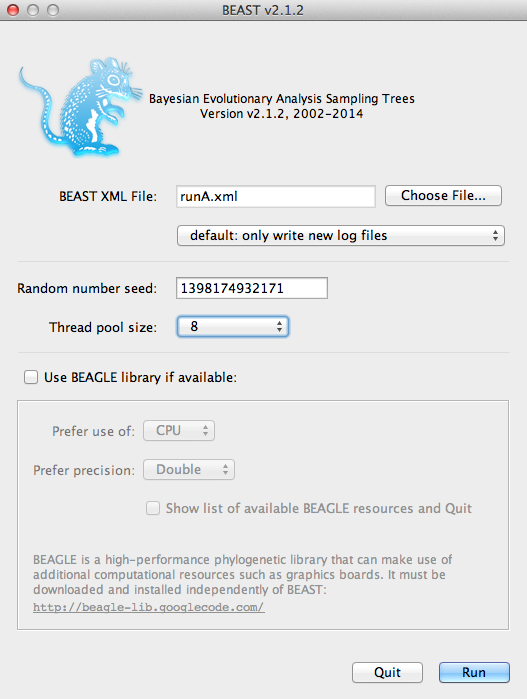
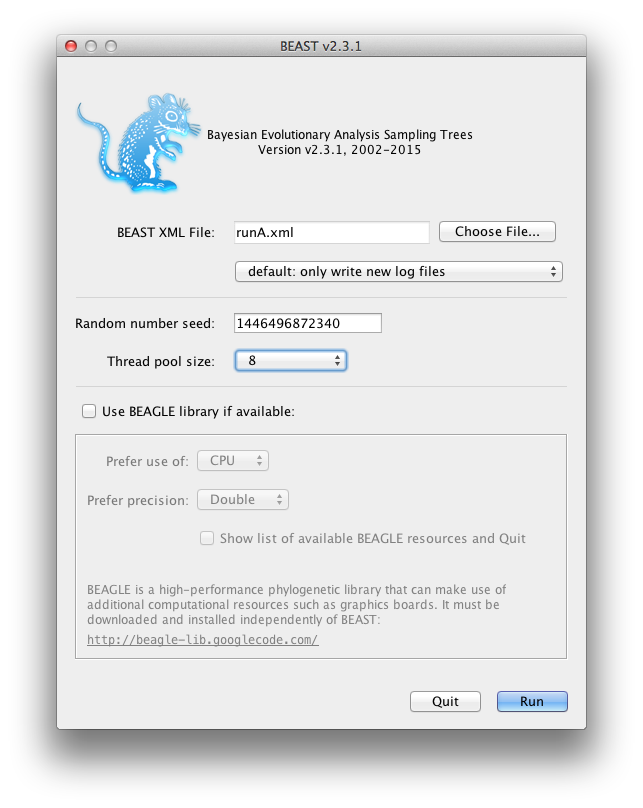
update BFD* tutorial

Changed region(s): [[0.0, 0.0, 1.0, 0.9914]]

diff --git a/BFD*/tutorial/BFD*-tutorial-steps.tex b/BFD*/tutorial/BFD*-tutorial-steps.tex
@@ -1,16 +1,15 @@
 \intermediate{\subsection{Downloads and Data}}
 
-\step{Download and data.}{
+\step{Download and data.}{\footnote{\label{foot.done}Already done at the Bioinformatics 2015 workshop.}
     Download \program{BEAST} from \href{http://beast2.org}{\url{http://beast2.org}} and install it on your computer.
-    This tutorial is written for the Mac OS X version of \program{BEAST}v2.1.2.
+    This tutorial is written for the Mac OS X version of \program{BEAST}v2.3.1.
     
-    You will be using \program{BEAST} to run \program{SNAPP}, although it is possible to run \program{SNAPP} on it's own. However, we 
-    have to use \program{BEAST} in order to combine \program{SNAPP} and marginal likelihood estimation into the same analytical framework. 
-    Thus, without \program{BEAST} we would not be able to conduct Bayes factor delimitation of species with \program{SNAPP}.
+    You will be using \program{BEAST} to run \program{SNAPP}. %RRB: highly discouraged now:, although it is possible to run \program{SNAPP} on it's own. 
+    We  have to use \program{BEAST} in order to combine \program{SNAPP} and marginal likelihood estimation into the same analytical framework. 
     
     }
 
-\step{Data included with the tutorial.}{
+\step{Data included with the tutorial.}{\hspace{-2.5mm}$^1$ %${}^\ref{foot.done}$
    After downloading and unzipping this archive you should have a BFD*-tutorial folder on your computer. This tutorial
     contains the files and folders shown in
     Box~\ref{box:tutorialDir}. The \menutab{data} folder contains the gecko SNP data in binary format (necessary for \program{SNAPP}). If you are unsure of how to convert your own
@@ -52,7 +51,15 @@
 
 \step{Launch BEAUTi}{Begin by launching the \program{BEAUTi} program that comes with \program{BEAST}. If you
     are using Mac OSX or Windows, you should be able to do this by double
-    clicking on the application. If everything is working correctly, a window
+    clicking on the application. On Linux, use the following command from a terminal:
+    
+    	    \cmd{/path/to/BEASTv2.3.1/bin/beauti}
+	    
+	    or
+	    
+	    \cmd{beauti}
+    
+    If everything is working correctly, a window
     should appear that looks something like Figure~\ref{fig:beautiInit}.
     \begin{figure}[htbp]
         \centering
@@ -62,7 +69,8 @@
     \end{figure}
 }
 
-\step{Install SNAPP and model selection packages}{We need to add functionality to \program{BEAST} in order to estimate 
+\step{Install SNAPP and model selection packages}{\hspace{-2.5mm}$^1$ %${}^\ref{foot.done}$ 
+    We need to add functionality to \program{BEAST} in order to estimate 
      species trees with SNP data and 
      to perform model selection. Begin by using the drop-down 
      menu \subItem{File}{Manage Packages.} A window should 
@@ -81,7 +89,7 @@
 \step{Converting \program{BEAUTi} to \program{SNAPP} mode}{We need to tell \program{BEAUTi} that we are 
      setting up a \program{SNAPP} analysis, which will change the menu options and allow us to import SNP data.
      Begin by using the drop-down 
-     menu \subItem{File}{Template, SNAPP}. This should change the appearance of the \program{BEAUTi} 
+     menu \subItem{File}{Template, SNAPP.} This should change the appearance of the \program{BEAUTi} 
      window to look something like Figure~\ref{fig:beauti-snapp}.
 
     \begin{figure}[htbp]
@@ -96,7 +104,7 @@
 
 \step{Import the SNP data.}{
     Import the SNP data (the {\bf hemi129.nex} file)
-    using the drop-down menu \subItem{File}{Import Alignment.}
+    using the drop-down menu \subItem{File}{Add Alignment.}
 
     Once the data are successfully loaded into \program{BEAUTi} you should see a list of the 
     samples included in the data file (Figure~\ref{fig:beauti-data-imported}.)
@@ -145,7 +153,7 @@
 
 \step{Set the mutation model.}{
     Next, we need to set up our model under the \menutab{Mutation Model} tab Figure~\ref{fig:beauti-mutation}.
-    We will use the default options for this tutorial, but you should read the documentation \href{http://www.beast2.org/wiki/index.php/SNAPP}{A rough guide to SNAPP} to learn more about the model options. Briefly, the parameters are as follows:
+    You should read the documentation \href{http://www.beast2.org/wiki/index.php/SNAPP}{A rough guide to SNAPP} to learn more about the model options. Briefly, the parameters are as follows:
 
 \small{
     \begin{compactdesc}
@@ -164,11 +172,13 @@
     
     The ``Use Log Likelihood Correction'' checkbox is for calculating corrected likelihood values for Bayes factor test of different species assignments.
         
+	Click the 'Calc mutation rates' button to get an empirical estimate of the U and V mutation rates. For this tutorial, we will not estimate these rates, so uncheck the 'Sample' box next to Mutation Rate U.
+
     }
     
         \begin{figure}[htbp]
         \centering
-        \fbox{\includegraphics[width=0.8\textwidth]{../screenshots/beauti-mutation.png}}
+        {\includegraphics[width=0.8\textwidth]{../screenshots/beauti-mutation.png}}
         \caption{The Mutation Model options.}
         \label{fig:beauti-mutation}
     \end{figure}
@@ -191,6 +201,8 @@
        \item[\field{Lambda: Birth rate for the Yule model prior on the species tree.}]
        \item[\field{Rateprior: prior on rates can be Gamma, InverseGamma, CIR, or Uniform.}]
     \end{compactdesc}
+    
+	For this tutorial, we will not estimate $\lambda$, so uncheck the box next to 'Sample' on the entry for Lambda. The lambda prior will now disappear.
 }
     
     \begin{figure}[htbp]
@@ -236,6 +248,39 @@
     Save the file to
     the \localfile{BFD*-tutorial} folder.\\
     }
+
+
+\intermediate{\subsection{Running the stepping stone analysis with \program{BEAST}}}
+
+\step{Marginal likelihood estimation by GUI.}{
+There are two ways to set up the stepping stone analysis; through a GUI, and by editing the XML. The GUI is more convenient but makes it a bit harder to transfer the analysis to a cluster, and since stepping stone analyses are typically very computational intensive, it often makes sense to run them on a cluster. In this step, we explain how to set up the analysis using the GUI, and in the next two steps it is explained how to set up an XML file through a text editor.
+
+First, start the BEAST app-store using the command
+
+    	    \cmd{/path/to/BEASTv2.3.1/bin/appstore}
+	    
+	    or
+	    
+	    \cmd{appstore}
+
+A window similar to Figure~\ref{fig:appstore} should pop up.
+
+    \begin{figure}[htbp]
+        \centering
+        {\includegraphics[width=0.6\textwidth]{../screenshots/appstore}}
+        \caption{BEAST app store.}
+        \label{fig:appstore}
+    \end{figure}
+
+Select the Path sampler icon, and hit the Launch button. A new window pops up with the GUI for path sampling/stepping stone analysis similar to Figure~\ref{fig:pathsampler}. Select the file with MCMC analysis you just set up in BEAUti, and change the settings as indicated in Figure~\ref{fig:pathsampler}.
+
+    \begin{figure}[htbp]
+        \centering
+        {\includegraphics[width=0.7\textwidth]{../screenshots/pathsampler}}
+        \caption{GUI for path sampling/stepping stone analysis.}
+        \label{fig:pathsampler}
+    \end{figure}
+}
 
 \intermediate{\subsection{Editing the XML file for marginal likelihood estimation}}
 
@@ -298,7 +343,7 @@ Finally, move the entire {\bf ``stateDistribution''} element to just before the 
 	    You can also run \program{BEAST} from the command line. Open the {\bf Terminal} Application and navigate to the folder 
 	    containing your {\bf runA.xml} file. To execute the file, type the following at the command line:
 	    
-	    \cmd{/path/to/BEASTv2.1.2/bin/beast -threads 8 runA.xml}
+	    \cmd{/path/to/BEASTv2.3.1/bin/beast -threads 8 runA.xml}
 	    
 	    or
 	    
@@ -352,11 +397,13 @@ XML files containing the species assignments shown in Figure \ref{fig:map} are p
    After you run each of the alternative species delimitation models you can rank them by their marginal likelihood estimate (MLE). You 
    can also calculate Bayes factors to compare the models. 
    The Bayes factor (BF) is a model selection tool that is simple and well suited for the purposes of comparing species delimitation models. 
-   Calculating the BF between models is simple. To do so, simply subtract the MLE values for two models, and then multiply the difference by two (BF = 2 x (model1 - model2). A negative BF value indicates support in favor of model 1. A positive BF value indicates support in favor of model 2. 
+   Calculating the natural logarithm of the BF (ln BF) between models is simple. To do so, simply subtract the ln MLE values for two models (ln BF = (ln MLE(model1 ) - ln MLE(model2)). A negative BF value indicates support in favor of model 1. A positive BF value indicates support in favor of model 2. 
+   
+{\bf Note} that the ln MLE values are provided directly by the stepping stone analysis, but the natural logarithms bit 'ln' is typically not mentioned but implicitly assumed. Likewise, BF often stands for ln BF, and in the remained, we will drop the ln for MLE and BF.
 
 The strength of support from BF comparisons of competing models can be evaluated using the framework of \cite{kass95}. 
  The BF scale is as follows: 
-0 < BF < 2 is not worth more than a bare mention, 2 < BF < 6 is positive evidence, 6 < BF < 10 is strong support, and BF > 10 is decisive.
+0 < BF < 1.1 is not worth more than a bare mention, 1.1 < BF < 3 is positive evidence, 3 < BF < 5 is strong support, and BF > 5 is decisive.
 
 The results for the seven gecko models are provided in Table 1. The model that splits \textit{Hemidactylus eniangii} into two species (runF) is the top-ranked model. It has the largest MLE value, and it is supported in favor of the current taxonomy model (runA). The BF in support for model F is decisive compared to model A. 
 
@@ -365,14 +412,14 @@ Table 1: Path sampling results for the seven species delimitation models shown i
 \tabcolsep=0.2cm
 \begin{tabular}{l c c c c } 
 \hline     
-Model 							& Species 	& MLE 	& Rank 	& BF\\\hline
+Model 							& Species 	&  MLE 	& Rank 	& BF\\\hline
 runA, current taxonomy				& 4 			& -1673.4 	& 2		& -- \\
-runB, lump western forests			& 3 			& -1724.2 	& 5		& +101.5\\
-runC, lump central forests				& 3 			& -1788.0 	& 6		& +229.2\\
-runD, lump western \& central forests	& 2 			& -1842.9 	& 7		& +339.0\\
-runE, split \textit{fasciatus}			& 5 			& -1713.2 	& 4		& +79.7\\
-runF, split \textit{eniangii} 				& 5 			& -1625.9 	& 1		& -95.1 \\
-runG, reassign Bioko Island			& 4 			& -1712.6 	& 3 		& +78.4\\\hline
+runB, lump western forests			& 3 			& -1724.2 	& 5		& +50.8\\
+runC, lump central forests				& 3 			& -1788.0 	& 6		& +114.6\\
+runD, lump western \& central forests	& 2 			& -1842.9 	& 7		& +169.5\\
+runE, split \textit{fasciatus}			& 5 			& -1713.2 	& 4		& +39.8\\
+runF, split \textit{eniangii} 				& 5 			& -1625.9 	& 1		& -47.5 \\
+runG, reassign Bioko Island			& 4 			& -1712.6 	& 3 		& +39.2\\\hline
 \end{tabular}\\
 MLE = Marginal likelihood estimate\\
 BF = Bayes factor\\
@@ -403,6 +450,7 @@ TreeAnnotator will summarize the posterior distribution of species trees and ide
     Check the \field{Node Bars} option and select
     \fieldvalue{height\_95\%\_HPD} for the \subItem{Node bars}{Display} field.
     
+    Alternatively, start DensiTree (it is part of the BEAST distribution, so just double click the icon in OSX or Windows or use the \cmd{densitree} command in Linux) and read in the \localfile{runA.trees} file representing the posterior distribution. By selecting population size for branch widths, population sizes throughout the tree can be visualised.
 }
 
 

diff --git a/BFD*/tutorial/BFD*-tutorial.tex b/BFD*/tutorial/BFD*-tutorial.tex
@@ -12,7 +12,7 @@
 \setlength{\parskip}{.1in}
 \usepackage[T1]{fontenc}
 \usepackage[round]{natbib}
-\bibliographystyle{../../bst/sysbio}
+\bibliographystyle{sysbio}
 \usepackage[fleqn]{amsmath}
 \usepackage{amssymb}
 \usepackage{xspace}
@@ -33,7 +33,7 @@
 \fancyhf{} % clear all headers and footers
 \fancyhead[RO,LE]{Species Delimitation in a SNAPP Tutorial}
 % \fancyhead[RO,LE]{2012}
-\fancyfoot[LO,LE]{\footnotesize 2015 Adelaide, Australia.}
+\fancyfoot[LO,LE]{\footnotesize Bioinformatics, 2015 Adelaide, Australia.}
 \fancyfoot[CE,CO]{}
 \fancyfoot[RO,RE]{\thepage}
 \renewcommand{\footrulewidth}{0.5pt}
@@ -70,7 +70,10 @@ A Tutorial and Worked Example}\\
 Adam Leach\'e\\
 Department of Biology\\
 University of Washington\\
-April 2015
+\\
+Remco Bouckaert\\
+University of Auckland \& Max Planck Institute for the Science of Human History\\
+November 2015\\
 {\singlespacing \tableofcontents}
 \newpage
 %###########################################################################################
@@ -81,7 +84,7 @@ We will use example SNP data for geckos (genus \textit{Hemidactylus}) and the so
 We will work through the steps necessary for setting up the required packages on your computer, setting up the XML file, and testing species delimitation models using marginal likelihood estimation and Bayes factors.  
 
 \section{Version, Author information, and Acknowledgements}
-This tutorial was written by Adam Leach\'e for \beast version 2.1.2. Remco Bouckaert helped troubleshoot the tutorial.
+This tutorial was written by Adam Leach\'e for \beast version 2.1.2 and updated by Remco Bouckaert for \beast version 2.3.1.
 The layout of the tutorial is a modified version of a divergence time tutorial written by Jamie Oaks \href{https://github.com/joaks1}{\url{(https://github.com/joaks1)}}, which he borrowed from Tracy Heath. 
 A similar \href{http://www.beast2.org/wiki/index.php/BFD*}{tutorial} is provided at the \beast website. This work is licensed under a \href{http://creativecommons.org/licenses/by/4.0/deed.en_US}{Creative Commons Attribution 4.0 International License.}
 
@@ -97,8 +100,8 @@ We will be using the free, open-source software package, \beast (Bayesian
 Evolutionary Analysis Sampling Trees;
 \href{http://beast2.org}{\url{http://beast2.org}}), for
 estimating species trees.
-For this tutorial, you will need to use \beast version 2.1 or better. 
-The distribution comes with the \program{BEAUTi}, which you will use to manage package plugins (also called add-ons), including \program{SNAPP}.
+For this tutorial, you will need to use \beast version 2.3.1 or better. 
+The distribution comes with the \program{BEAUTi}, which you will use to manage packages (also called add-ons or plugins), including \program{SNAPP}.
 
 \program{BEAST} comes with several other utility programs that we will use to prepare 
 input files (\program{BEAUTi}; Bayesian Evolutionary Analysis
@@ -111,13 +114,13 @@ for evaluating, summarizing, and viewing results.
 
 \section{The Data}
 We will be analyzing SNP data for geckos in the \textit{Hemidactylus fasciatus} species complex. Details on how the data were collected are 
-provided in \citep{Leache14}. For this tutorial, we will use a data matrix containing 129 SNPs that is also available for download on \href{http://datadryad.org/resource/doi:10.5061/dryad.r55fb}{Dryad}. Allopatric divergence seems to be the primary mechanism causing speciation in this group. These geckos are restricted to rainforest habitats, and their distributions match those of the major blocks of rainforest in West and Central Africa (Figure \ref{fig:map}). 
+provided in \citep{Leache14}. For this tutorial, we will use a data matrix containing 129 SNPs that is also available for download on \href{http://datadryad.org/resource/doi:10.5061/dryad.r55fb}{Dryad} (also part of the zip file containing this tutorial). Allopatric divergence seems to be the primary mechanism causing speciation in this group. These geckos are restricted to rainforest habitats, and their distributions match those of the major blocks of rainforest in West and Central Africa (Figure \ref{fig:map}). 
 
 For the species delimitation example, we will test species delimitation models based on historical connections between adjacent rainforest blocks. These models differ in the number of species, and how samples are assigned to species. The base model has four species (Figure \ref{fig:map}a). The alternative models are grouped into three classes: (1) lumping: populations are collapsed into the same species, (2) splitting: populations are partitioned into separate species, (3) reassigning: population(s) are allocated into a different species.
 
     \begin{figure}[htbp]
         \centering
-        \fbox{\includegraphics[width=0.8\textwidth]{../../images/map.png}}
+        \fbox{\includegraphics[width=0.8\textwidth]{../images/map.png}}
         \caption{Geographic sampling of geckos (numbers in symbols indicate sample sizes). Starting taxonomy is shown in (a). BFD* is used to test the alternative species delimitation models outlined in (b) -- (g).}
         \label{fig:map}
     \end{figure}
@@ -139,11 +142,11 @@ For the species delimitation example, we will test species delimitation models b
 \section{Additional Information/Resources}
 Other resources for species delimitation in *BEAST include a
 \href{http://beast2.org}{tutorial} provided at the \beast website.  
-Another Bayes factor species delimitation tutorial is included in 
-the species tree estimation tutorial available at the author's \href{http://faculty.washington.edu/leache/wordpress/}{website}. 
+%RRB: could not find this tutorial:
+%Another Bayes factor species delimitation tutorial is included in the species tree estimation tutorial available at the author's \href{http://faculty.washington.edu/leache/wordpress/}{website}. 
 
 \newpage
-\bibliography{../../bib/references}
+\bibliography{references}
 
 \end{document}
 
